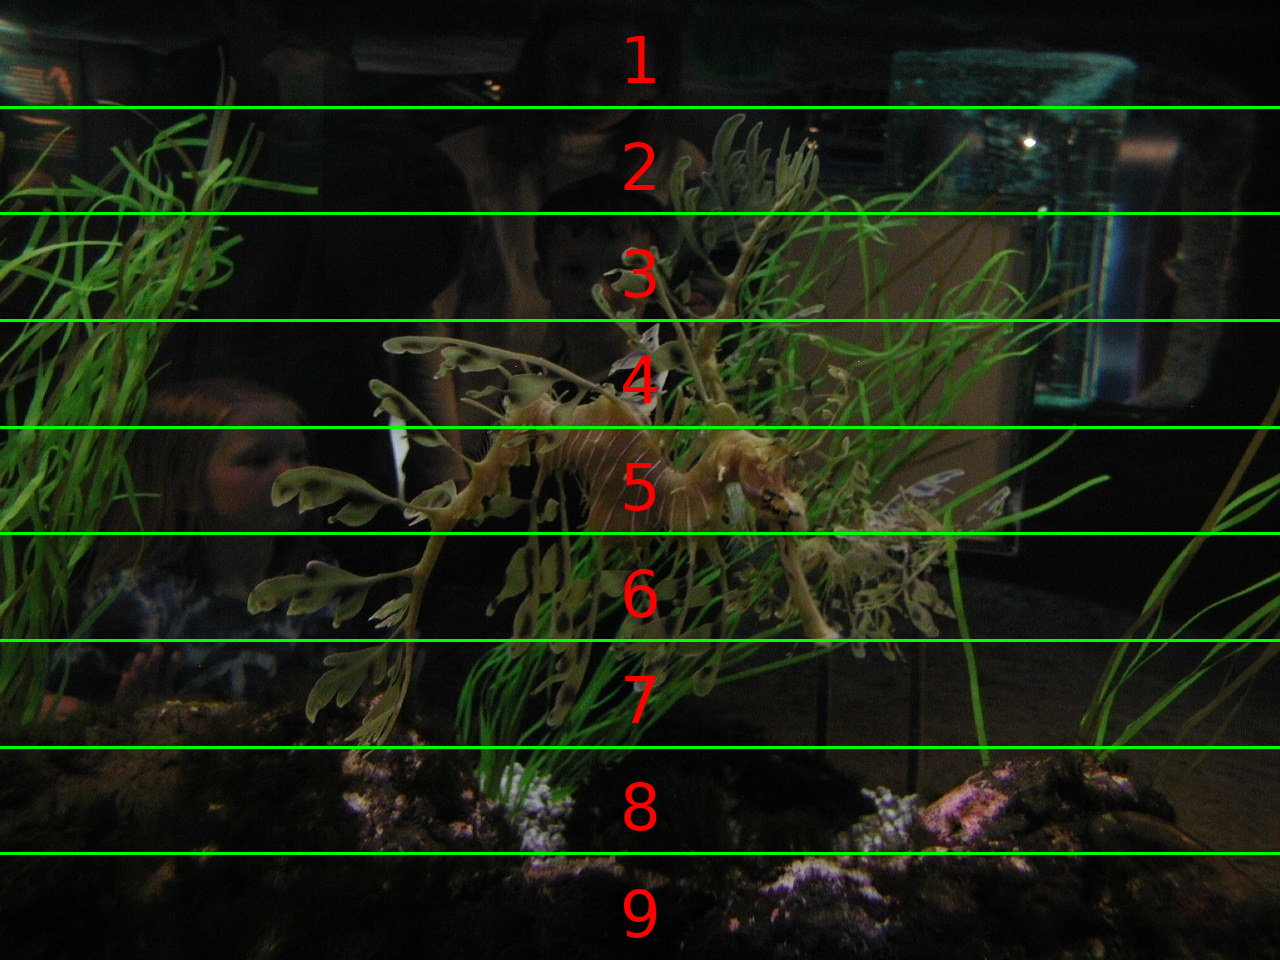
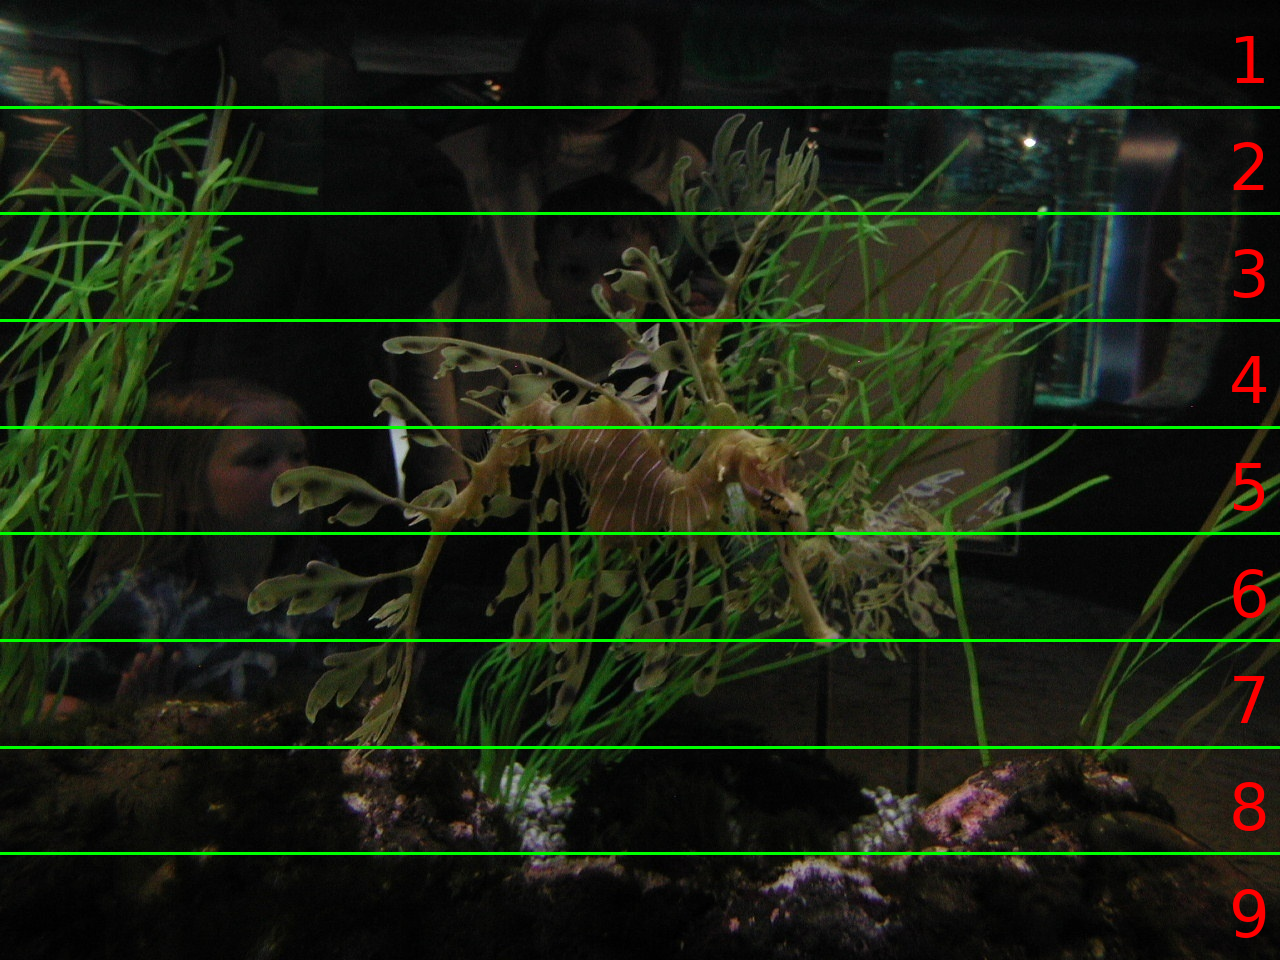
修正边线修正的问题

diff --git a/auxiliary/scripts/make_region_prompts.py b/auxiliary/scripts/make_region_prompts.py
@@ -111,12 +111,14 @@ def make_vertical_prompt(
         y = int(round(i * y_step))
         draw.rectangle([(0, y - line_thickness // 2), (w, y + line_thickness // 2)], fill=line_color)
 
-    # 标号：每一行中心 (w/2, (i-0.5)*y_step)
+    # 标号：每一行右边 (w-margin, (i-0.5)*y_step)
     for i in range(1, rows + 1):
         cy = int(round((i - 0.5) * y_step))
         text = str(i)
         tw, th = draw.textbbox((0, 0), text, font=font)[2:]
-        draw_text_with_outline(draw, (w // 2 - tw // 2, cy - th // 2), text, font, fill=text_color)
+        margin = max(10, tw + 10)  # 动态计算右边距
+        text_x = w - margin  # 右边对齐
+        draw_text_with_outline(draw, (text_x, cy - th // 2), text, font, fill=text_color)
 
     return canvas
 
@@ -142,12 +144,14 @@ def make_horizontal_prompt(
         x = int(round(j * x_step))
         draw.rectangle([(x - line_thickness // 2, 0), (x + line_thickness // 2, h)], fill=line_color)
 
-    # 标号：每一列中心 ((j-0.5)*x_step, h/2)
+    # 标号：每一列下边 ((j-0.5)*x_step, h-margin)
     for j in range(1, cols + 1):
         cx = int(round((j - 0.5) * x_step))
         text = str(j)
         tw, th = draw.textbbox((0, 0), text, font=font)[2:]
-        draw_text_with_outline(draw, (cx - tw // 2, h // 2 - th // 2), text, font, fill=text_color)
+        margin = max(10, th + 10)  # 动态计算下边距
+        text_y = h - margin  # 下边对齐
+        draw_text_with_outline(draw, (cx - tw // 2, text_y), text, font, fill=text_color)
 
     return canvas
 
